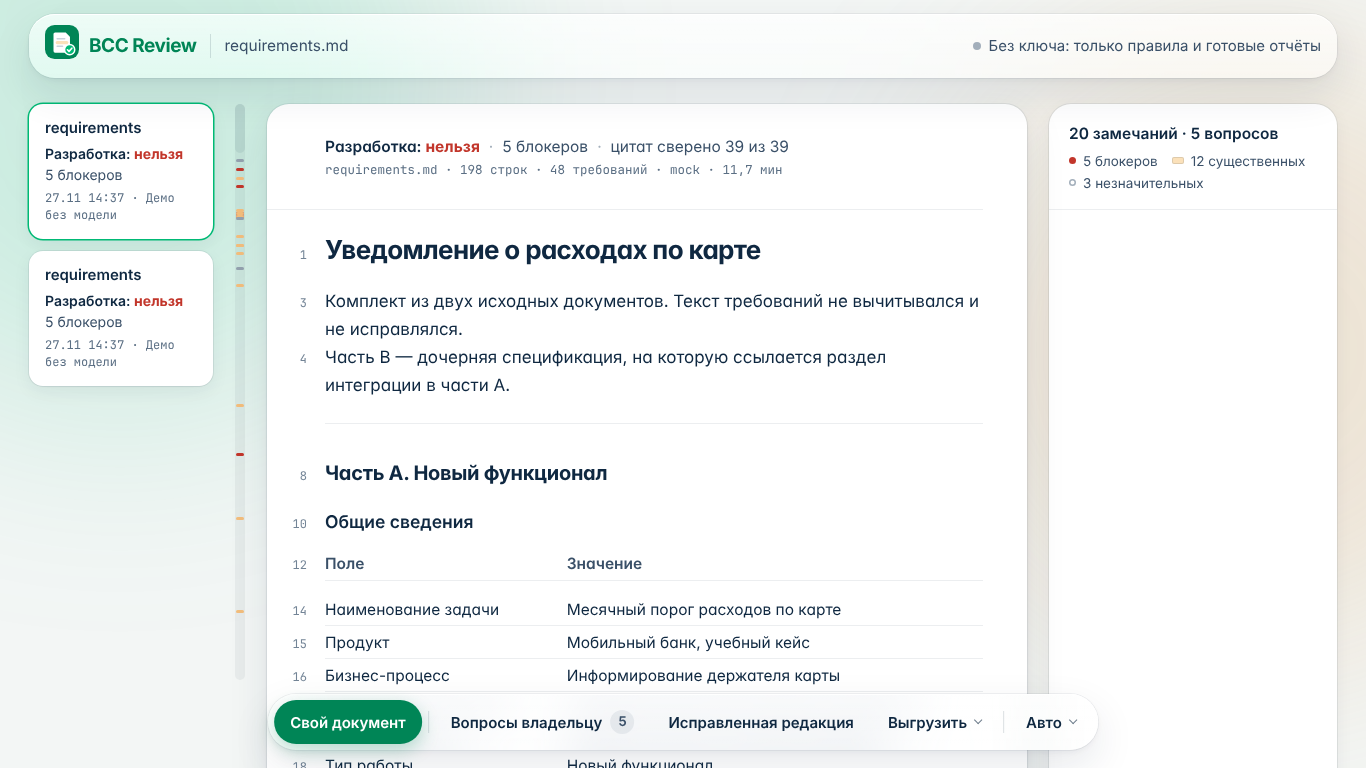
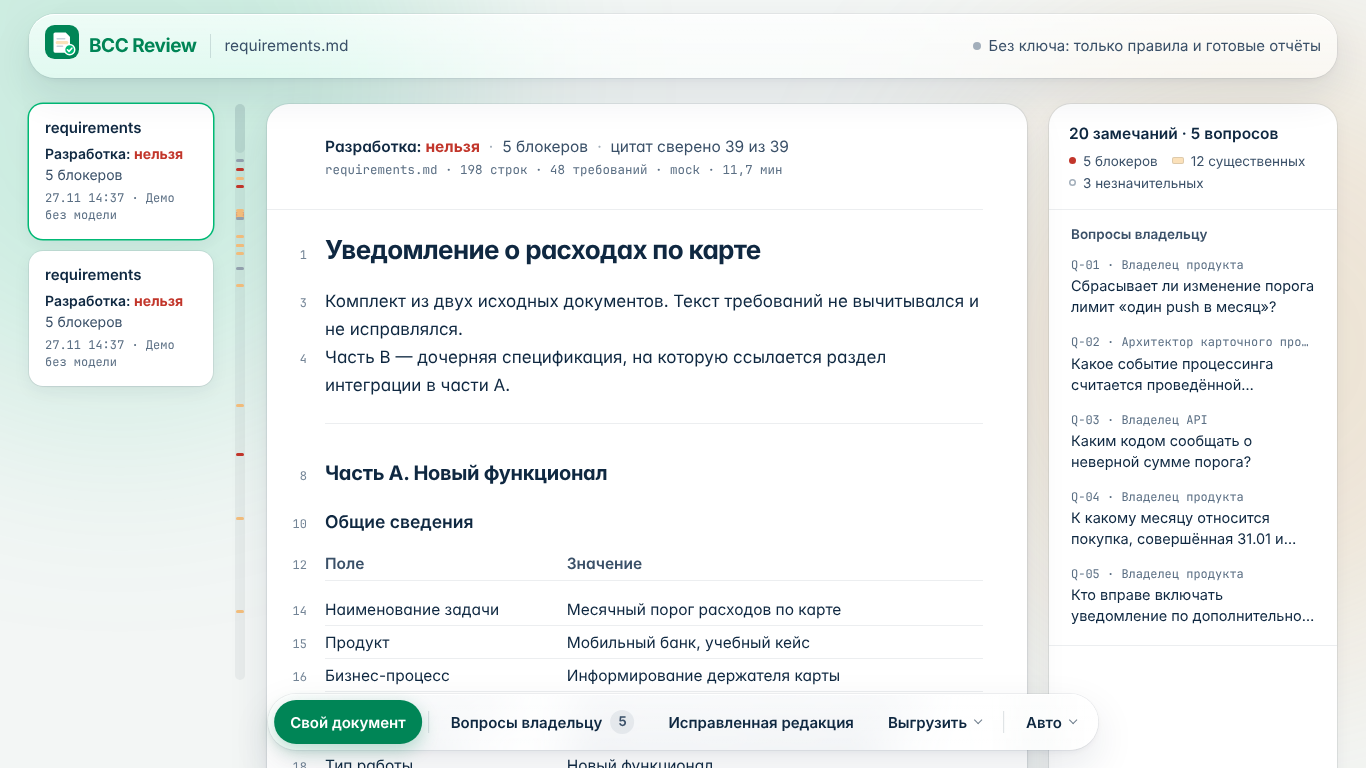
№39 v3: вопросы владельцу на полях под шапкой — чернилами, нажатие ведёт к месту в листе; снимки
Claude-Session: https://claude.ai/code/session_01DNYQd4mHxUc8TtEyFGFm7K

Changed region(s): [[0.7687, 0.4375, 0.9531, 0.8125], [0.7687, 0.3438, 0.9531, 0.4062], [0.7687, 0.2812, 0.8917, 0.3125]]

diff --git a/src/bcc_review/v2/web/assets/tokens.css b/src/bcc_review/v2/web/assets/tokens.css
@@ -14,6 +14,7 @@
  *   .b-hl              правка: .crit — тонкая красная черта под фразой; .major — бледный золотой маркер #FBE1BA;
  *                      .minor — серая пунктирная черта; рисуется слева направо, задержка style="--i:N" (шаг 30 мс)
  *   .b-margin          вторая бумага справа от листа — поля для заметок
+ *   .b-margin-q > .b-q вопросы владельцу на полях, под шапкой; нажатие — место в листе (data-f)
  *   .b-note            заметка: <b>D-01</b> + суть, точка смысла (.crit красная, .major золотой маркер, .minor серая)
  *   .is-focus / .on    место в фокусе, остальное приглушено
  *   .b-map             карта листа: тонкая полоска с засечками <i class="crit" style="--y:.19" data-line="39">
@@ -153,6 +154,16 @@ html{-webkit-text-size-adjust:100%;color-scheme:light;background:var(--b-canvas)
 .b-legend .crit::before,.b-note.crit b::before{background:var(--b-red);box-shadow:none}
 .b-legend .major::before,.b-note.major b::before{width:12px;height:7px;border-radius:2px;background:var(--b-mark-major);
   box-shadow:inset 0 0 0 1px rgba(15,40,65,.12)}
+.b-margin-q{padding:12px;box-shadow:inset 0 -1px 0 var(--b-hair)}
+.b-margin-sub{padding:2px 10px 4px;font-size:13.5px;font-weight:600;color:var(--b-ink-2)}
+.b-q{display:block;width:100%;margin:2px 0 0;padding:6px 10px 8px;border:0;border-radius:12px;background:none;text-align:left;
+  cursor:pointer;font:14.5px/1.45 var(--b-font);color:var(--b-ink);transition:background var(--b-fast) var(--b-ease)}
+.b-q b{display:block;font:400 12px/1.6 var(--b-mono);color:var(--b-ink-3);white-space:nowrap;overflow:hidden;text-overflow:ellipsis}
+.b-q .t{display:-webkit-box;-webkit-line-clamp:2;-webkit-box-orient:vertical;overflow:hidden}
+.b-q:hover,.b-q.on{background:var(--b-wash)}
+.b-q.on .t{-webkit-line-clamp:unset}
+.b-q[data-f=""]{cursor:default}
+.b-q-more{display:block;padding:6px 10px 2px;font-size:13.5px}
 .b-note{position:absolute;z-index:2;top:calc(var(--dy,0px) - 6px);
   left:calc(100% + var(--b-sheet-pr) + var(--b-desk-gap) + 12px);width:calc(var(--b-margin-w) - 24px);
   display:block;margin:0;padding:6px 10px 8px;border:0;border-radius:12px;background:none;text-align:left;cursor:pointer;

diff --git a/src/bcc_review/v2/web/assets/app.js b/src/bcc_review/v2/web/assets/app.js
@@ -88,8 +88,9 @@
     var notes = Array.prototype.slice.call(sheet.querySelectorAll(".b-note"));
     var layout = function () {
       var wide = window.matchMedia("(min-width: 1241px)").matches;
-      var head = document.querySelector(".b-margin-head");
-      var bottom = head ? head.offsetHeight + 6 : -1e9;  // поля начинаются под шапкой полей
+      var head = document.querySelector(".b-margin-q") || document.querySelector(".b-margin-head");
+      // заметки начинаются под шапкой полей и вопросами владельцу
+      var bottom = head ? head.getBoundingClientRect().bottom - sheet.getBoundingClientRect().top + 6 : -1e9;
       notes.forEach(function (n) {
         n.style.removeProperty("--dy");
         if (!wide) return;
@@ -107,6 +108,7 @@
         l.classList.toggle("on", !!on && (" " + (l.dataset.f || "") + " ").indexOf(" " + on + " ") >= 0);
       });
       notes.forEach(function (n) { n.classList.toggle("on", n.dataset.f === on); });
+      document.querySelectorAll(".b-q").forEach(function (q) { q.classList.toggle("on", !!on && q.dataset.f === on); });
       layout();
       var first = on && sheet.querySelector(".b-line.on");
       if (first) {
@@ -120,6 +122,10 @@
       else if (sheet.dataset.focus) focus(sheet.dataset.focus);
     });
     document.addEventListener("keydown", function (ev) { if (ev.key === "Escape" && sheet.dataset.focus) focus(sheet.dataset.focus); });
+    document.querySelectorAll(".b-q[data-f]").forEach(function (q) {  // вопрос владельцу → его место в листе
+      if (!q.dataset.f) return;
+      q.addEventListener("click", function () { focus(q.dataset.f); });  // focus() сам прокрутит к строке
+    });
     var map = $("#map"), view = $("#mapview");
     var syncView = function () {
       if (!map || !view) return;

diff --git a/src/bcc_review/v2/web/server.py b/src/bcc_review/v2/web/server.py
@@ -204,6 +204,23 @@ def _margin_head(report: dict[str, Any]) -> str:
             f'<div class="b-legend">{legend}</div></div>')
 
 
+def _margin_questions(report: dict[str, Any], href: str, *, limit: int = 5) -> str:
+    """Вопросы владельцу на полях, под шапкой: чернилами, нажатие — место в листе в фокусе (первое замечание вопроса)."""
+    qs = [q for q in (report.get("questions") or []) if isinstance(q, dict) and str(q.get("question") or "").strip()]
+    if not qs:
+        return ""
+    items = []
+    for q in qs[:limit]:
+        fids = [f for f in (q.get("finding_ids") or []) if isinstance(f, str) and f]
+        label = " · ".join(x for x in (str(q.get("id") or ""), str(q.get("to") or "")) if x)
+        items.append(f'<button type="button" class="b-q" data-f="{e(fids[0] if fids else "")}">'
+                     f'<b>{e(label)}</b><span class="t">{e(str(q["question"]).strip())}</span></button>')
+    rest = len(qs) - limit
+    more = (f'<a class="b-q-more" href="{e(href)}#questions">ещё {rest} {plural(rest, "вопрос", "вопроса", "вопросов")}</a>'
+            if rest > 0 and href else "")
+    return f'<div class="b-margin-q"><div class="b-margin-sub">Вопросы владельцу</div>{"".join(items)}{more}</div>'
+
+
 def index_page(app: App, *, error: str = "", provider: str = "", model: str = "") -> str:
     provs = provider_status()
     ids = [p["id"] for p in provs]
@@ -262,7 +279,7 @@ def index_page(app: App, *, error: str = "", provider: str = "", model: str = ""
 <aside class="desk-stack" aria-label="Готовые листы">{stack}</aside>
 <aside class="desk-map" aria-label="Карта листа">{f'<div class="b-map" id="map">{sheet.map}<span class="b-map-view" id="mapview"></span></div>' if sheet else ''}</aside>
 <main class="desk-sheet">{sheet.html if sheet else ''}</main>
-<div class="desk-notes{' b-margin' if sheet and sheet.notes else ''}">{_margin_head(top["report"]) if top and sheet and sheet.notes else ''}</div>
+<div class="desk-notes{' b-margin' if sheet and sheet.notes else ''}">{_margin_head(top["report"]) + _margin_questions(top["report"], href) if top and sheet and sheet.notes else ''}</div>
 </div>
 <div class="veil" id="veil" hidden><div class="veil-sheet"><b>Отпустите файл</b>BCC AI сразу начнёт проверку<small>PDF, Word, Markdown, TXT, HTML · до 20 МБ</small></div></div>"""
     sub = (top or {}).get("name") or (f"Пример: {app.sample.name}" if app.sample else "")

diff --git a/tests/v2/test_39_design.py b/tests/v2/test_39_design.py
@@ -119,6 +119,9 @@ def test_desk_opens_last_report_as_sheet(srv):
     assert 'id="sheet"' in html and 'class="b-verdict"' in html
     assert 'Разработка: <b class="no">нельзя</b>' in html and "5 блокеров" in html and "цитат сверено 39 из 39" in html
     assert 'class="desk-notes b-margin"' in html
+    # вопросы владельцу — на полях, чернилами; нажатие ведёт к первому замечанию вопроса
+    assert '<div class="b-margin-sub">Вопросы владельцу</div>' in html and html.count('class="b-q"') == 5
+    assert '<button type="button" class="b-q" data-f="D-01"><b>Q-01 · Владелец продукта</b>' in html
     assert f'href="/jobs/{job.id}#questions"' in html and f'href="/jobs/{job.id}#revised"' in html
     assert html.count('class="b-note ') == 20 and html.count('data-line="') == 20  # заметки и засечки карты
     assert "Выгрузить" in html and f"/jobs/{job.id}/files/report.html" in html
@@ -137,6 +140,17 @@ def test_sheet_marks_quotes_on_their_lines():
     # исходник не текстовый — лист собирается из цитат, номера строк те же
     sh2 = SH.build_sheet(rep, None, file_name="requirements.pdf")
     assert 'id="L39"' in sh2.html and "На карту приходится" in sh2.html
+
+
+def test_margin_questions_limit_and_escaping():
+    qs = [{"id": f"Q-0{i}", "to": "Владелец", "question": f"Вопрос {i} <b>?", "finding_ids": [f"D-0{i}"]} for i in range(1, 8)]
+    qs.append({"id": "Q-08", "question": "  "})  # пустой вопрос не показываем
+    html = S._margin_questions({"questions": qs}, "/jobs/abc")
+    assert html.count('class="b-q"') == 5 and "&lt;b&gt;?" in html and "<b>?" not in html
+    assert '<a class="b-q-more" href="/jobs/abc#questions">ещё 2 вопроса</a>' in html
+    assert S._margin_questions({"questions": []}, "/jobs/abc") == ""
+    lone = S._margin_questions({"questions": [{"question": "Без замечания?"}]}, "")
+    assert 'data-f=""' in lone and "b-q-more" not in lone
 
 
 def test_plural_and_verdict_variants():
